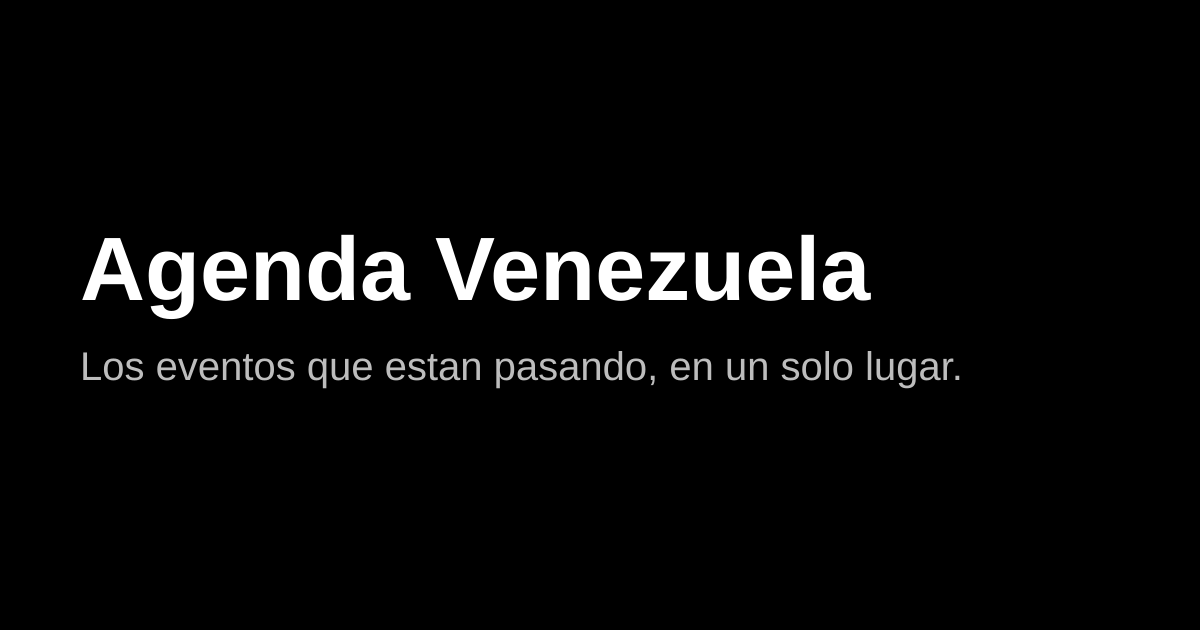
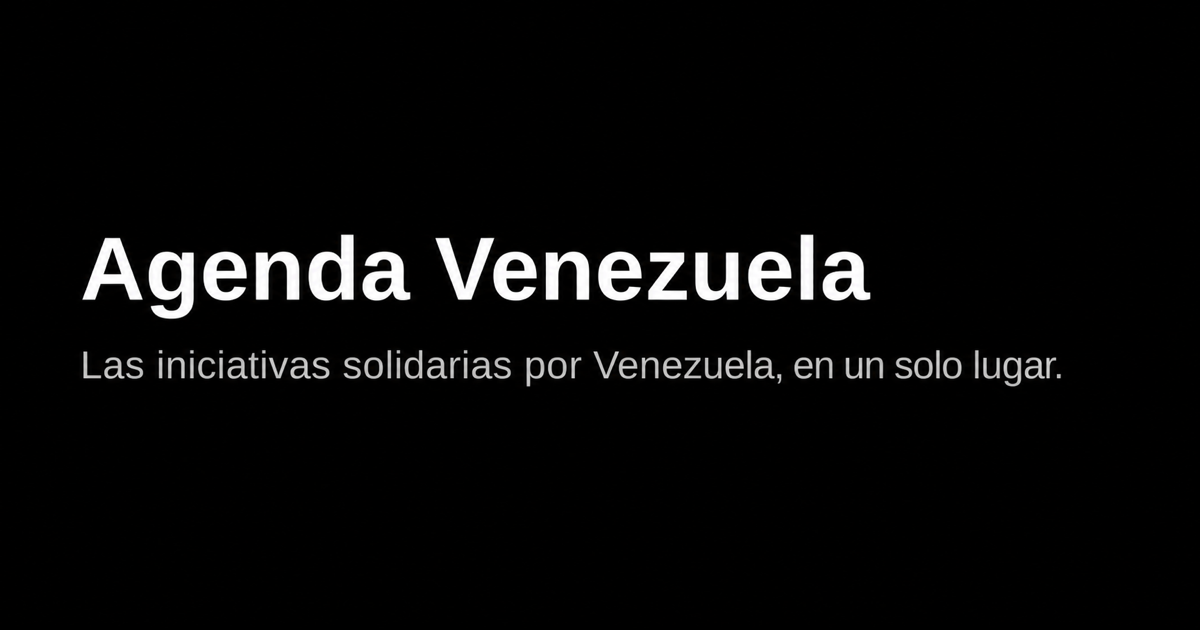
Actualizar textos y simplificar formulario

diff --git a/index.html b/index.html
@@ -7,18 +7,18 @@
     <meta name="format-detection" content="telephone=no, address=no, email=no, date=no" />
     <meta name="theme-color" content="#ffffff" />
     <title>Agenda Venezuela</title>
-    <meta name="description" content="Descubre los eventos que están pasando en Venezuela. Guarda los que te interesan y compártelos." />
+    <meta name="description" content="Descubre todas las iniciativas benéficas que apoyan a Venezuela. Guarda los que te interesan y compártelos." />
 
     <!-- Open Graph / social sharing -->
     <meta property="og:type" content="website" />
     <meta property="og:title" content="Agenda Venezuela" />
-    <meta property="og:description" content="Descubre los eventos que están pasando en Venezuela. Guarda los que te interesan y compártelos." />
-    <meta property="og:image" content="https://agenda-venezuela.netlify.app/og-image.png" />
+    <meta property="og:description" content="Descubre todas las iniciativas benéficas que apoyan a Venezuela. Guarda los que te interesan y compártelos." />
+    <meta property="og:image" content="https://agenda-venezuela.netlify.app/og-image.png?v=2" />
     <meta property="og:url" content="https://agenda-venezuela.netlify.app/" />
     <meta name="twitter:card" content="summary_large_image" />
     <meta name="twitter:title" content="Agenda Venezuela" />
-    <meta name="twitter:description" content="Descubre los eventos que están pasando en Venezuela. Guarda los que te interesan y compártelos." />
-    <meta name="twitter:image" content="https://agenda-venezuela.netlify.app/og-image.png" />
+    <meta name="twitter:description" content="Descubre todas las iniciativas benéficas que apoyan a Venezuela. Guarda los que te interesan y compártelos." />
+    <meta name="twitter:image" content="https://agenda-venezuela.netlify.app/og-image.png?v=2" />
   </head>
   <body>
     <div id="root"></div>

diff --git a/src/config.ts b/src/config.ts
@@ -7,9 +7,9 @@ export const BRAND_NAME = 'Agenda Venezuela'
 export const SUBMIT_EVENT_URL = 'https://form.jotform.com/261915305293053'
 
 // Bloque comunitario al final de la agenda. Edita estas tres líneas para
-// cambiar el texto o el grupo sin tener que tocar los componentes.
+// cambiar el texto o el canal sin tener que tocar los componentes.
 export const COMMUNITY_INVITE_TEXT =
-  'Esta es una iniciativa hecha a partir del grupo Barcelona Earthquake Collaboration. Si quieres unirte a nuestro grupo de WhatsApp para recibir noticias verificadas de próximos eventos y noticias solidarias sobre Venezuela,'
+  'Esta es una iniciativa hecha a partir del canal Barcelona Earthquake Collaboration. Si quieres unirte a nuestro canal de WhatsApp para recibir noticias verificadas de próximos eventos y noticias solidarias sobre Venezuela,'
 export const COMMUNITY_INVITE_LINK_LABEL = 'únete aquí'
 export const COMMUNITY_WHATSAPP_URL =
   'https://chat.whatsapp.com/Co0WZGboWje6BdWkh6ir8W'

diff --git a/src/pages/Clarisa.tsx b/src/pages/Clarisa.tsx
@@ -337,7 +337,7 @@ export default function Clarisa() {
               />
             </label>
             <label className="form__field">
-              <span>Grupo de WhatsApp</span>
+              <span>Canal de WhatsApp</span>
               <input
                 className="input"
                 type="url"
@@ -445,13 +445,11 @@ export default function Clarisa() {
             <label className="form__field"><span>Organizador</span><input className="input" value={f.organizer} onChange={(e) => set('organizer', e.target.value)} /></label>
             <label className="form__field"><span>A beneficio de</span><input className="input" value={f.beneficiary} onChange={(e) => set('beneficiary', e.target.value)} /></label>
             <label className="form__field"><span>Qué necesita</span><textarea className="input" value={f.needs} onChange={(e) => set('needs', e.target.value)} /></label>
-            <label className="form__field"><span>Horarios</span><input className="input" value={f.hours} onChange={(e) => set('hours', e.target.value)} placeholder="Ej: Vie 17-22 · Sáb 11-23" /></label>
             <label className="form__field"><span>Teléfono</span><input className="input" value={f.contactPhone} onChange={(e) => set('contactPhone', e.target.value)} /></label>
             <label className="form__field"><span>WhatsApp (link)</span><input className="input" value={f.whatsappUrl} onChange={(e) => set('whatsappUrl', e.target.value)} /></label>
             <label className="form__field"><span>Instagram (link)</span><input className="input" value={f.instagramUrl} onChange={(e) => set('instagramUrl', e.target.value)} /></label>
             <label className="form__field"><span>Entradas (link)</span><input className="input" value={f.ticketUrl} onChange={(e) => set('ticketUrl', e.target.value)} /></label>
             <label className="form__field"><span>Web</span><input className="input" value={f.website} onChange={(e) => set('website', e.target.value)} /></label>
-            <label className="form__field"><span>Line-up (uno por línea)</span><textarea className="input" value={f.lineup} onChange={(e) => set('lineup', e.target.value)} /></label>
             <label className="form__field"><span>Nota</span><textarea className="input" value={f.note} onChange={(e) => set('note', e.target.value)} /></label>
           </div>
         )}

diff --git a/README.md b/README.md
@@ -2,7 +2,7 @@
 
 # 🌸 Agenda Venezuela 🌸
 
-**Los eventos que están pasando en Venezuela, en un solo lugar.**
+**Las iniciativas solidarias por Venezuela, en un solo lugar.**
 Guárdalos, compártelos y no te pierdas ni uno. 🎉
 
 </div>